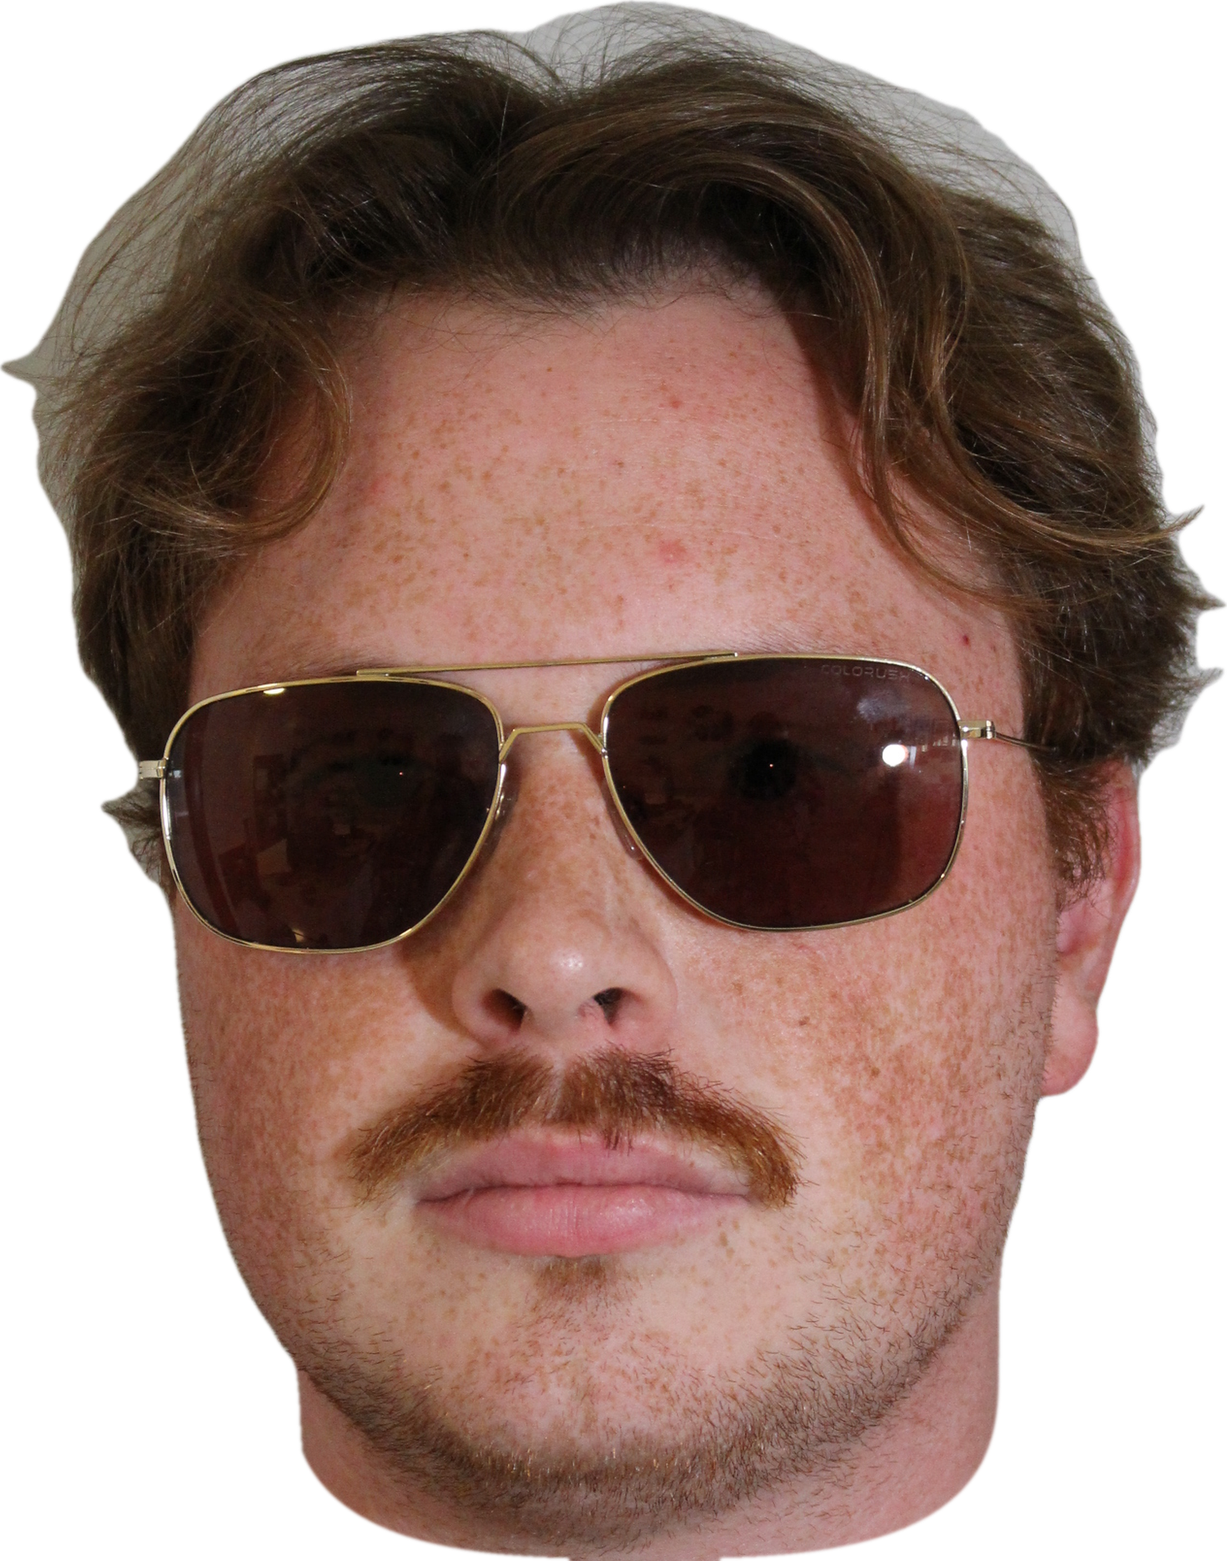
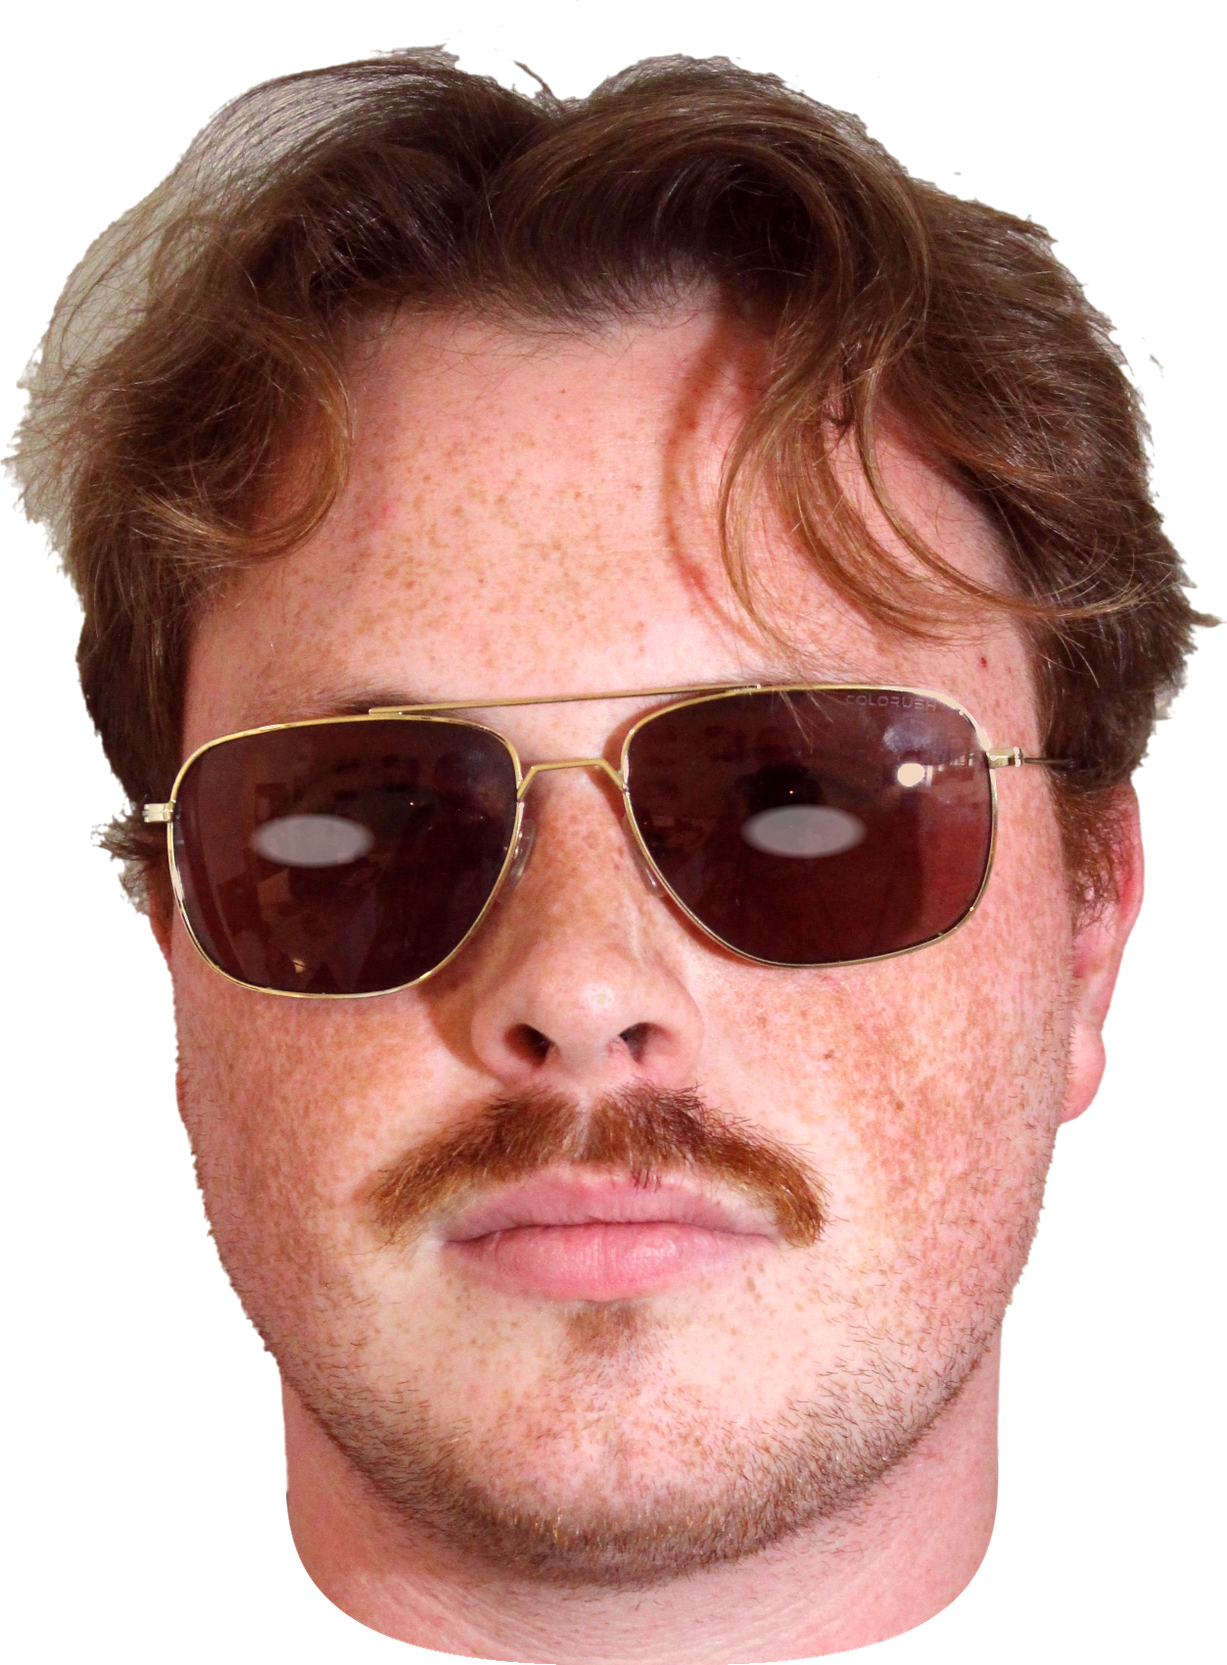
Rework the dark head matte and exposure; tracking eyes behind the shades
Noah's overnight notes: cleaner clipping on the dark head ("Clipping is the
big issue. There's moments where we see the back wall or part of my face is
removed"), exposure matched to the light shoot, tracking eyes in dark mode,
the light head cropped like the dark one, the footer wordmark black, the
clock screen fully inverted, and a third-of-a-second fade between modes.

=== CLIPPING AND EXPOSURE WERE ONE PROBLEM, NOT TWO ===

The pale rim around the dark head was not mostly wall bleed. Sampling the
raw frames at the hair edge: the wall sits at ~(180,180,180) and the top of
his hair carries a genuine grey ambient sheen, because the flash was off. So
most of that rim is real hair, just mis-exposed and desaturated. Deleting
"bright neutral pixels near the edge" — the obvious fix, and the first one I
tried — punched holes straight through the hair's own highlights, because it
was removing hair rather than background.

What actually works is four ordered steps, each aimed at a different cause:

1. Closed-form matting over a trimap built from the u2net mask, so hair
   wisps get real fractional alpha instead of being all-in or all-out, plus
   estimate_foreground_ml to recover true foreground colour at those partial
   pixels and undo the wall's contribution to them.
2. A Reinhard exposure transfer fitted from the light frames over WARM
   pixels only on both sides (R-B > 15, i.e. skin and hair, so the grey wall
[…]

diff --git a/src/components/PeekingHead.tsx b/src/components/PeekingHead.tsx
@@ -2,6 +2,8 @@
 
 import Link from "next/link";
 import HeadWithEyes from "./HeadWithEyes";
+import { useTheme } from "./ThemeProvider";
+import { headAsset } from "@/lib/headAssets";
 
 /*
  * The footer's head, peeking up over the bottom edge of the browser window
@@ -35,20 +37,14 @@ import HeadWithEyes from "./HeadWithEyes";
  * Recomputed 2026-08-21 when the neck came off the artwork. The number that
  * matters is where the EYE LINE sits, since the whole point of a tracking
  * head down here is that you can see it tracking. On the old head+neck
- * image the sockets were ~41.6% down the box and 0.52 cleared them; on the
- * neck-less crop the same sockets are ~43.5% down (the box lost height from
- * the bottom, so every feature's fraction grew), and in dark mode the
- * sunglasses sit lower still in a shorter box. 0.60 clears both with room
- * to spare while keeping it a peek rather than a whole head. */
-const REVEAL_FRACTION = 0.6;
+ * image the sockets were ~41.6% down the box; on the neck-less crops they
+ * sit at ~47% (light) and ~50% (dark, behind the shades), because the box
+ * lost height from the bottom so every feature's fraction grew. 0.66
+ * clears both with room to spare while keeping it a peek rather than a
+ * whole head. */
+const REVEAL_FRACTION = 0.66;
 /** Head width in artboard units. */
 const HEAD_WIDTH_UNITS = 300;
-/** Head height in the same units. Uses the LIGHT head's aspect; the dark
- * head is a slightly different shape, and since this box is sized by width
- * with the artwork drawn `object-contain` inside it, the difference shows
- * up as a little extra clearance under the chin rather than as a crop. */
-const HEAD_HEIGHT_UNITS = (HEAD_WIDTH_UNITS * 1749) / 1227;
-const HIDDEN_UNITS = HEAD_HEIGHT_UNITS * (1 - REVEAL_FRACTION);
 
 export default function PeekingHead({
   /** Horizontal centre, in artboard units. Defaults to the page centre; the
@@ -59,12 +55,23 @@ export default function PeekingHead({
 }: {
   centerXUnits?: number;
 }) {
+  /* Sized from the CURRENT theme's own aspect rather than one fixed number.
+   * With a single hardcoded height the shorter dark head was letterboxed
+   * inside a box shaped for the light one, so the same `bottom` offset hid
+   * more of it and it sat visibly lower — Noah: "I would like the dark mode
+   * head to be moved up a bit." Deriving the height per variant means both
+   * heads reveal the same FRACTION OF THEMSELVES, which is what the reveal
+   * was always meant to control. */
+  const { theme } = useTheme();
+  const heightUnits = HEAD_WIDTH_UNITS / headAsset(theme).aspectVal;
+  const hiddenUnits = heightUnits * (1 - REVEAL_FRACTION);
+
   return (
     <div
       className="absolute pointer-events-none select-none"
       style={{
         width: `calc(var(--u) * ${HEAD_WIDTH_UNITS})`,
-        bottom: `calc(var(--u) * -${HIDDEN_UNITS})`,
+        bottom: `calc(var(--u) * -${hiddenUnits})`,
         left: `calc(var(--u) * ${centerXUnits})`,
         transform: "translateX(-50%)",
       }}

diff --git a/src/components/AwayOverlay.tsx b/src/components/AwayOverlay.tsx
@@ -5,8 +5,19 @@ import MickeyWatch from "./MickeyWatch";
 import { ArcText, BottomArcText } from "./ArcText";
 
 /*
- * AWAY SCREEN — black full-viewport panel carrying the clock lockup and
+ * AWAY SCREEN — full-viewport ink panel carrying the clock lockup and
  * Noah's contact details.
+ *
+ * THEME (2026-08-21, per Noah: "please make sure the clock screen also fully
+ * changes the colors. The background is now white, which is good, but please
+ * make the text and the circle black."). The panel is --color-ink and every
+ * mark on it is --color-paper, so the whole lockup inverts as one: ink panel
+ * with white type and a white clock disc in light mode, white panel with
+ * black type and a black disc in dark. Previously the panel already followed
+ * the token while the type, the rules under the links and the clock's disc
+ * were hardcoded #fff, so in dark mode they turned invisible against their
+ * own background. The watch artwork inside the disc is photographic and is
+ * deliberately left alone, the same as the two heads.
  *
  * IT APPEARS ON TWO TRIGGERS:
  *
@@ -205,14 +216,14 @@ export default function AwayOverlay() {
   }, [isMediaBusy]);
 
   const linkStyle: React.CSSProperties = {
-    color: "#fff",
+    color: "var(--color-paper)",
     textDecoration: "none",
     display: "block",
     whiteSpace: "nowrap",
     fontFamily: "var(--font-sans)",
     fontSize: "clamp(0.62rem, calc(var(--u) * 21), 1.1rem)",
     letterSpacing: "0.02em",
-    borderBottom: "2px solid #fff",
+    borderBottom: "2px solid var(--color-paper)",
     paddingBottom: "0.32em",
     // The panel is inert so it can never trap a click; the links opt back
     // in, so a click made on the way back to the window still lands.
@@ -268,7 +279,7 @@ export default function AwayOverlay() {
           style={{ width: "min(calc(var(--u) * 520), 52vh)", aspectRatio: "1/1" }}
         >
           {/* White circle backdrop, clipping the oversized watch to a clean edge */}
-          <div className="absolute inset-0 rounded-full bg-white overflow-hidden">
+          <div className="absolute inset-0 rounded-full bg-[color:var(--color-paper)] overflow-hidden">
             <div
               className="absolute"
               style={{ width: "153%", height: "153%", left: "-26.5%", top: "-26.5%" }}
@@ -288,7 +299,7 @@ export default function AwayOverlay() {
               spanDeg={180}
               fontSize={ARC_FONT}
               flip={true}
-              color="#fff"
+              color="var(--color-paper)"
             />
           </div>
           {/* Bottom arc: "CONTACT NOAH" — letters grow inward, so this
@@ -304,7 +315,7 @@ export default function AwayOverlay() {
               centerY={CIRCLE_CENTRE}
               spanDeg={180}
               fontSize={ARC_FONT}
-              color="#fff"
+              color="var(--color-paper)"
             />
           </div>
         </div>

diff --git a/src/lib/headAssets.ts b/src/lib/headAssets.ts
@@ -40,26 +40,43 @@ export type HeadAsset = {
   } | null;
 };
 
-/* Eye socket centres are the centroids of the transparent holes in
- * head-noneck.png, measured off its alpha channel (holes at x298-424/y742-777
- * and x706-836/y730-769 on the 1227x1749 canvas). The rendered pupil is ~1.15x
- * the hole so the socket edge is always covered — the same ratio the previous
- * hand-tuned constants used, carried over rather than re-guessed. */
+/* The light head is Noah's OWN export — design/02-about-me/"AboutMeHead -
+ * Light Mode - No Eyes No Neck.png" — cropped to its opaque bounds, not a
+ * neck cut synthesised here. His clipping is tighter and cleaner than
+ * anything derived automatically, and his neck line (y1665 on the original
+ * 1297x1970 canvas) lands the crop at 0.765 w/h, close enough to the dark
+ * head's 0.786 that swapping between them doesn't lurch — which is exactly
+ * what he asked for: "I like how the neck is treated in dark mode. Please
+ * apply the same cropping to the light mode head."
+ *
+ * Eye socket centres are the centroids of the transparent holes measured off
+ * that file's alpha channel. The rendered pupil is ~1.145x the hole so the
+ * socket edge is always covered — the ratio the original hand-tuned
+ * constants used, carried over rather than re-guessed. */
 export const HEAD_LIGHT: HeadAsset = {
   src: "/assets/about/head-noneck.png",
-  aspect: "1227/1749",
-  aspectVal: 1227 / 1749,
+  aspect: "1227/1605",
+  aspectVal: 1227 / 1605,
   eyes: {
-    left: { x: 0.2937, y: 0.435, widthPct: 11.84 },
-    right: { x: 0.6272, y: 0.4293, widthPct: 12.26 },
+    left: { x: 0.2937, y: 0.474, widthPct: 11.85 },
+    right: { x: 0.6272, y: 0.4679, widthPct: 12.22 },
   },
 };
 
+/* Dark head eye sockets sit BEHIND the sunglass lenses. Rather than punching
+ * them fully transparent — which would read as two holes cut in the shades —
+ * the artwork keeps partial alpha over each socket, so the tracked pupil
+ * behind shows through dimly, tinted by the lens still in front of it. Noah:
+ * "They'll be behind sunglasses, but I still want eyes to track the cursor
+ * like how it is on light mode." */
 export const HEAD_DARK: HeadAsset = {
   src: "/assets/about/head-dark.png",
-  aspect: "1227/1561",
-  aspectVal: 1227 / 1561,
-  eyes: null,
+  aspect: "1227/1665",
+  aspectVal: 1227 / 1665,
+  eyes: {
+    left: { x: 0.2538, y: 0.5046, widthPct: 11.3 },
+    right: { x: 0.6549, y: 0.499, widthPct: 11.3 },
+  },
 };
 
 export function headAsset(theme: Theme): HeadAsset {

diff --git a/src/app/globals.css b/src/app/globals.css
@@ -135,11 +135,55 @@
   --color-paper: #0d0d0d;
 }
 
-/* Colour changes shouldn't strobe when the reader flips the switch, but
-   they also shouldn't animate on every navigation, so this is scoped to the
-   properties that actually swap and kept short. */
-:root[data-theme] body {
-  transition: background-color 0.25s var(--ease-out-expo), color 0.25s var(--ease-out-expo);
+/* The footer wordmark is a single #fff fill; in dark mode the footer's own
+   background becomes white, so it would disappear into it. Inverting one
+   flat colour is exact — see the note at its use site in Footer.tsx. */
+:root[data-theme="dark"] .footer-wordmark {
+  filter: invert(1);
+}
+
+/*
+  CROSSFADE BETWEEN MODES (2026-08-21, per Noah: "When we toggle between
+  light and dark mode, let's not have it be an instant transition. Let's
+  have a fade between both modes. Let's have it for about a third of a
+  second.")
+
+  The transition is applied to EVERYTHING, but only for the third of a
+  second the switch actually takes: ThemeProvider stamps
+  data-theme-transition on <html>, flips the theme, and clears the stamp
+  when it's done. A permanent `* { transition: background-color ... }`
+  would be the obvious way to write this and is a trap — it would also
+  animate every hover state, every scroll-driven colour change and every
+  project tile that already runs its own transitions, quietly slowing the
+  whole site down and fighting animations that are meant to be instant.
+  Scoping it to the toggle keeps the rest of the site's timing untouched.
+
+  `fill` and `stroke` are included so inline SVG (the toggle itself, the
+  clock face) crossfades with everything else rather than snapping.
+*/
+:root[data-theme-transition],
+:root[data-theme-transition] *,
+:root[data-theme-transition] *::before,
+:root[data-theme-transition] *::after {
+  transition:
+    background-color var(--dur-theme) var(--ease-out-expo),
+    color var(--dur-theme) var(--ease-out-expo),
+    border-color var(--dur-theme) var(--ease-out-expo),
+    fill var(--dur-theme) var(--ease-out-expo),
+    stroke var(--dur-theme) var(--ease-out-expo),
+    filter var(--dur-theme) var(--ease-out-expo) !important;
+}
+
+:root {
+  --dur-theme: 0.33s;
+}
+
+/* Someone who has asked for less motion gets the colour swap immediately
+   rather than a slow wash across the whole page. */
+@media (prefers-reduced-motion: reduce) {
+  :root {
+    --dur-theme: 0.01ms;
+  }
 }
 
 * {

diff --git a/src/components/ThemeProvider.tsx b/src/components/ThemeProvider.tsx
@@ -88,6 +88,10 @@ const readThemeAttr = (): Theme =>
 
 const noopSubscribe = () => () => {};
 
+/** Must match --dur-theme in globals.css. */
+export const THEME_FADE_MS = 330;
+let fadeTimer = 0;
+
 export default function ThemeProvider({ children }: { children: React.ReactNode }) {
   const theme = useSyncExternalStore(subscribeToThemeAttr, readThemeAttr, () => "light" as Theme);
   // True only after hydration — server says false, client says true — so
@@ -95,9 +99,20 @@ export default function ThemeProvider({ children }: { children: React.ReactNode 
   const hydrated = useSyncExternalStore(noopSubscribe, () => true, () => false);
 
   const setTheme = useCallback((t: Theme) => {
+    const root = document.documentElement;
+    // Arm the crossfade for exactly the length of the switch, then disarm it
+    // — the transition rule in globals.css is keyed off this attribute, and
+    // leaving it on would put a 0.33s colour transition on every element on
+    // the site for the rest of the session.
+    root.setAttribute("data-theme-transition", "");
+    window.clearTimeout(fadeTimer);
+    fadeTimer = window.setTimeout(() => {
+      root.removeAttribute("data-theme-transition");
+    }, THEME_FADE_MS);
+
     // Writing the attribute IS the state update; the observer above turns it
     // back into a render.
-    document.documentElement.setAttribute("data-theme", t);
+    root.setAttribute("data-theme", t);
     try {
       localStorage.setItem(THEME_STORAGE_KEY, t);
     } catch {

diff --git a/src/components/Footer.tsx b/src/components/Footer.tsx
@@ -193,13 +193,21 @@ export default function Footer({ nextProjectHref }: { nextProjectHref?: string }
               a tad"). */}
           <Place x={72.68} y={21.44} w={1774.62}>
             <Link href="/" className="block">
+              {/* The wordmark asset is a single #fff fill, so in dark mode —
+                  where the footer's own background flips to white — it would
+                  vanish into it. Inverting is enough precisely BECAUSE it is
+                  one flat colour: white becomes black and there is nothing
+                  else in the file to disturb. Cheaper and less brittle than
+                  shipping and keeping in sync a second, black copy of the
+                  same artwork. Noah: "What I would like is for the
+                  'Cousineau' logo to be black now when in dark mode." */}
               <Image
                 src="/assets/home/cousineau-logo-white.svg"
                 alt="Cousineau"
                 width={711}
                 height={119}
                 loading="eager"
-                className="w-full h-auto"
+                className="w-full h-auto footer-wordmark"
               />
             </Link>
           </Place>
